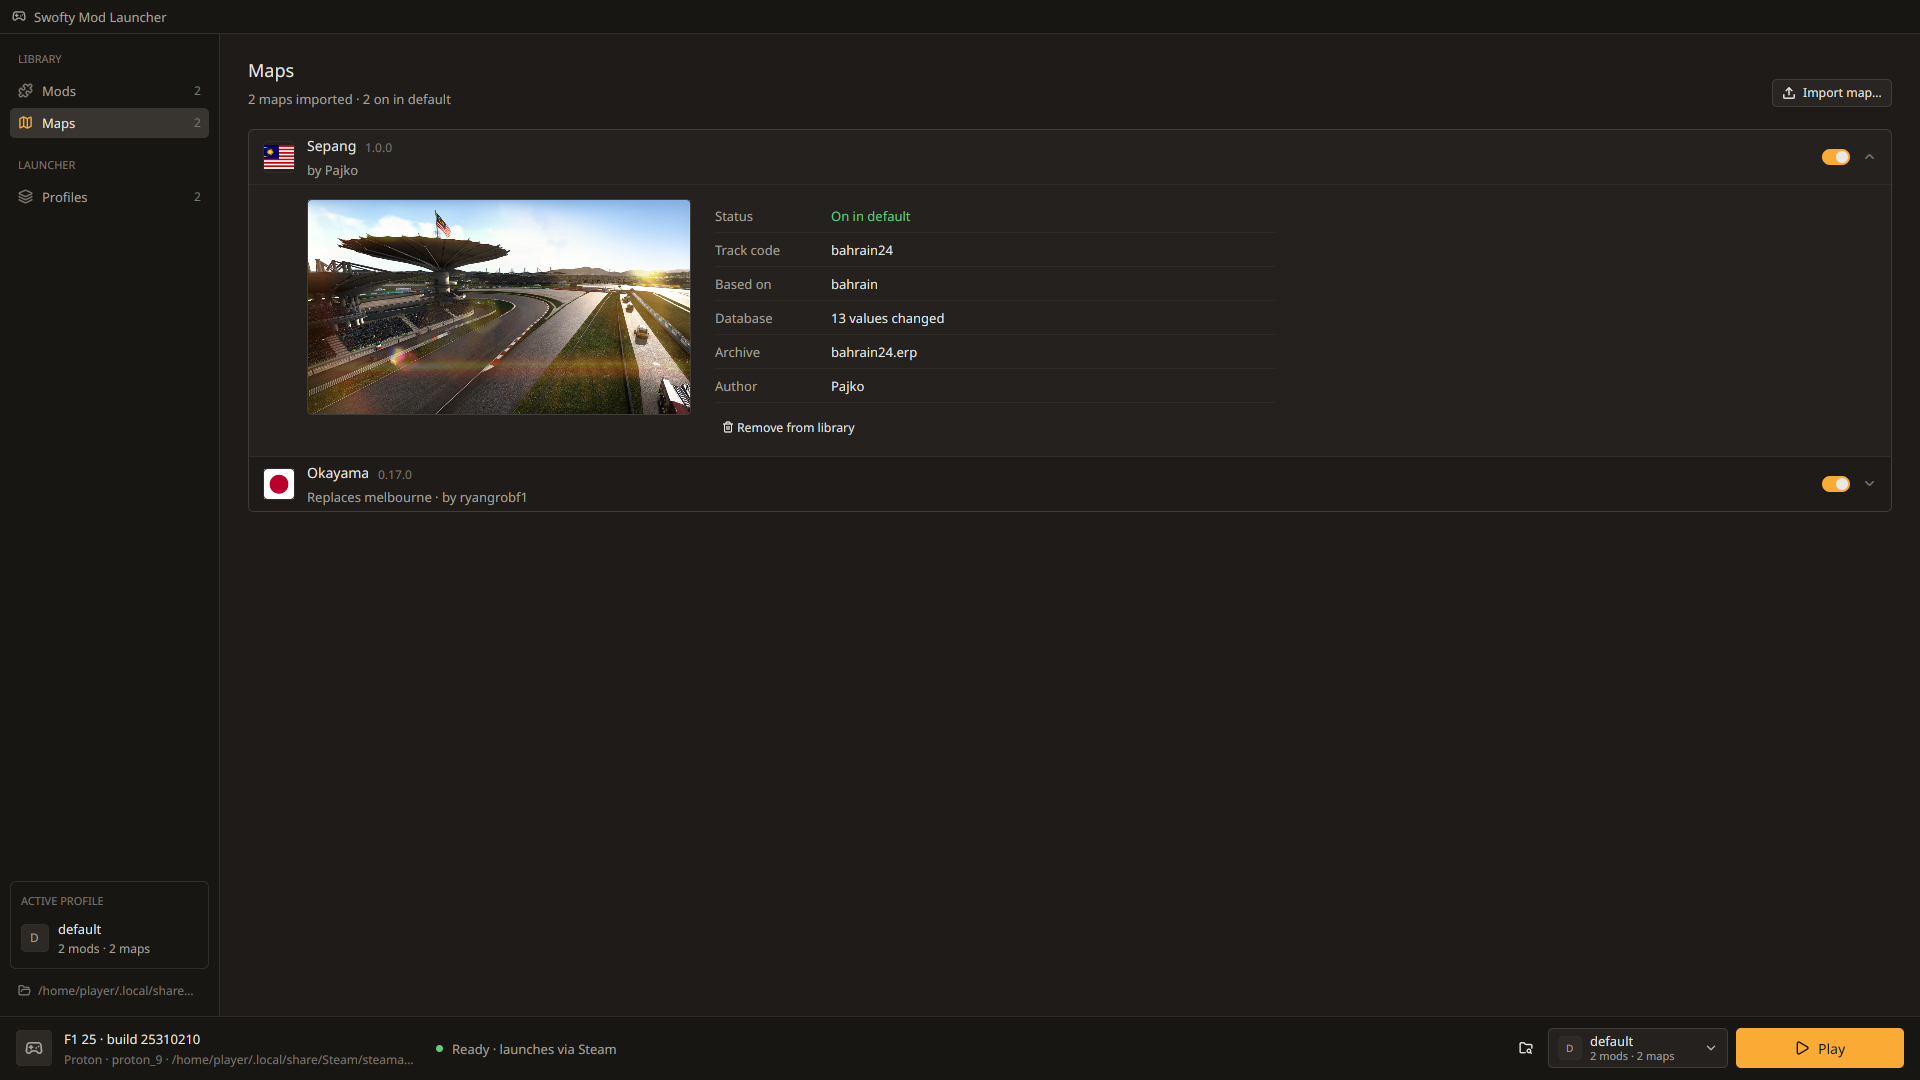
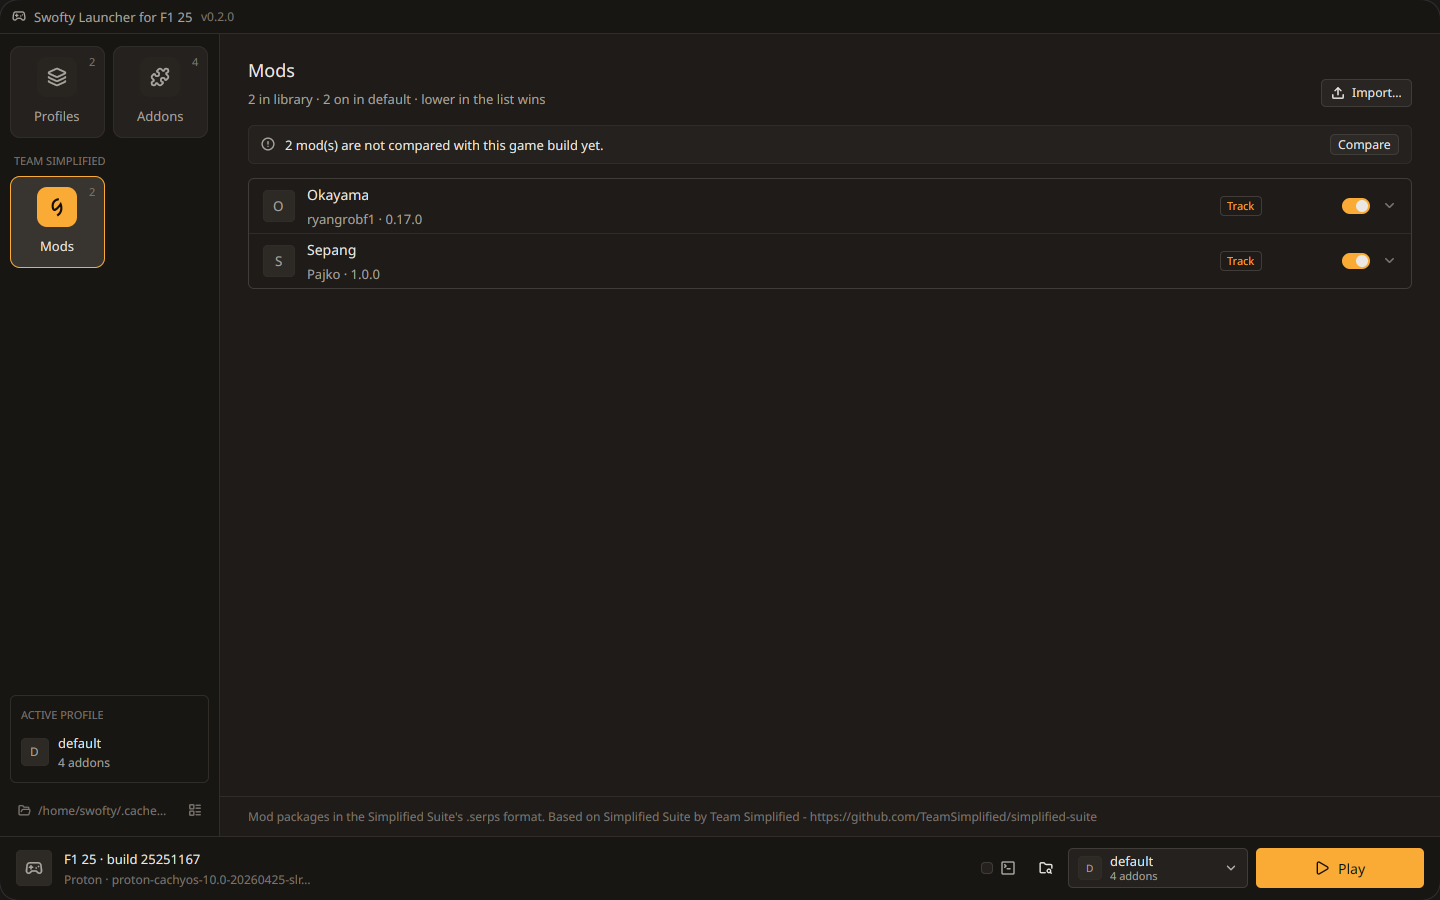
docs: show the current launcher on the home page

diff --git a/docs/index.md b/docs/index.md
@@ -7,15 +7,15 @@ description: A launcher and mod loader for F1 25 on Windows and Linux. Addons ho
 screenshots:
   hero:
     src: /screenshots/hero-launcher.png
-    alt: The Swofty Launcher for F1 25 launcher
+    alt: The launcher's Addons page with SwoftyMod, Team Simplified, Custom Grid Size and an AlphaTauri livery addon, and the sidebar tiles for Profiles, Addons and Team Simplified's Mods
   gallery:
     - src: /screenshots/gallery-ingame.png
       alt: The F1 25 home menu with ADDON SETTINGS under Career, the "Launched with Swofty Launcher" panel and the F9 prompt
       caption: ADDON SETTINGS in the game's home menu
       shape: square
     - src: /screenshots/gallery-launcher.png
-      alt: The Swofty Launcher for F1 25 launcher
-      caption: Addons, mods, maps and profiles in the launcher
+      alt: The Mods page from Team Simplified with the Sepang and Okayama tracks turned on
+      caption: Mods and tracks on the Team Simplified page
       shape: wide
 
 hero:
